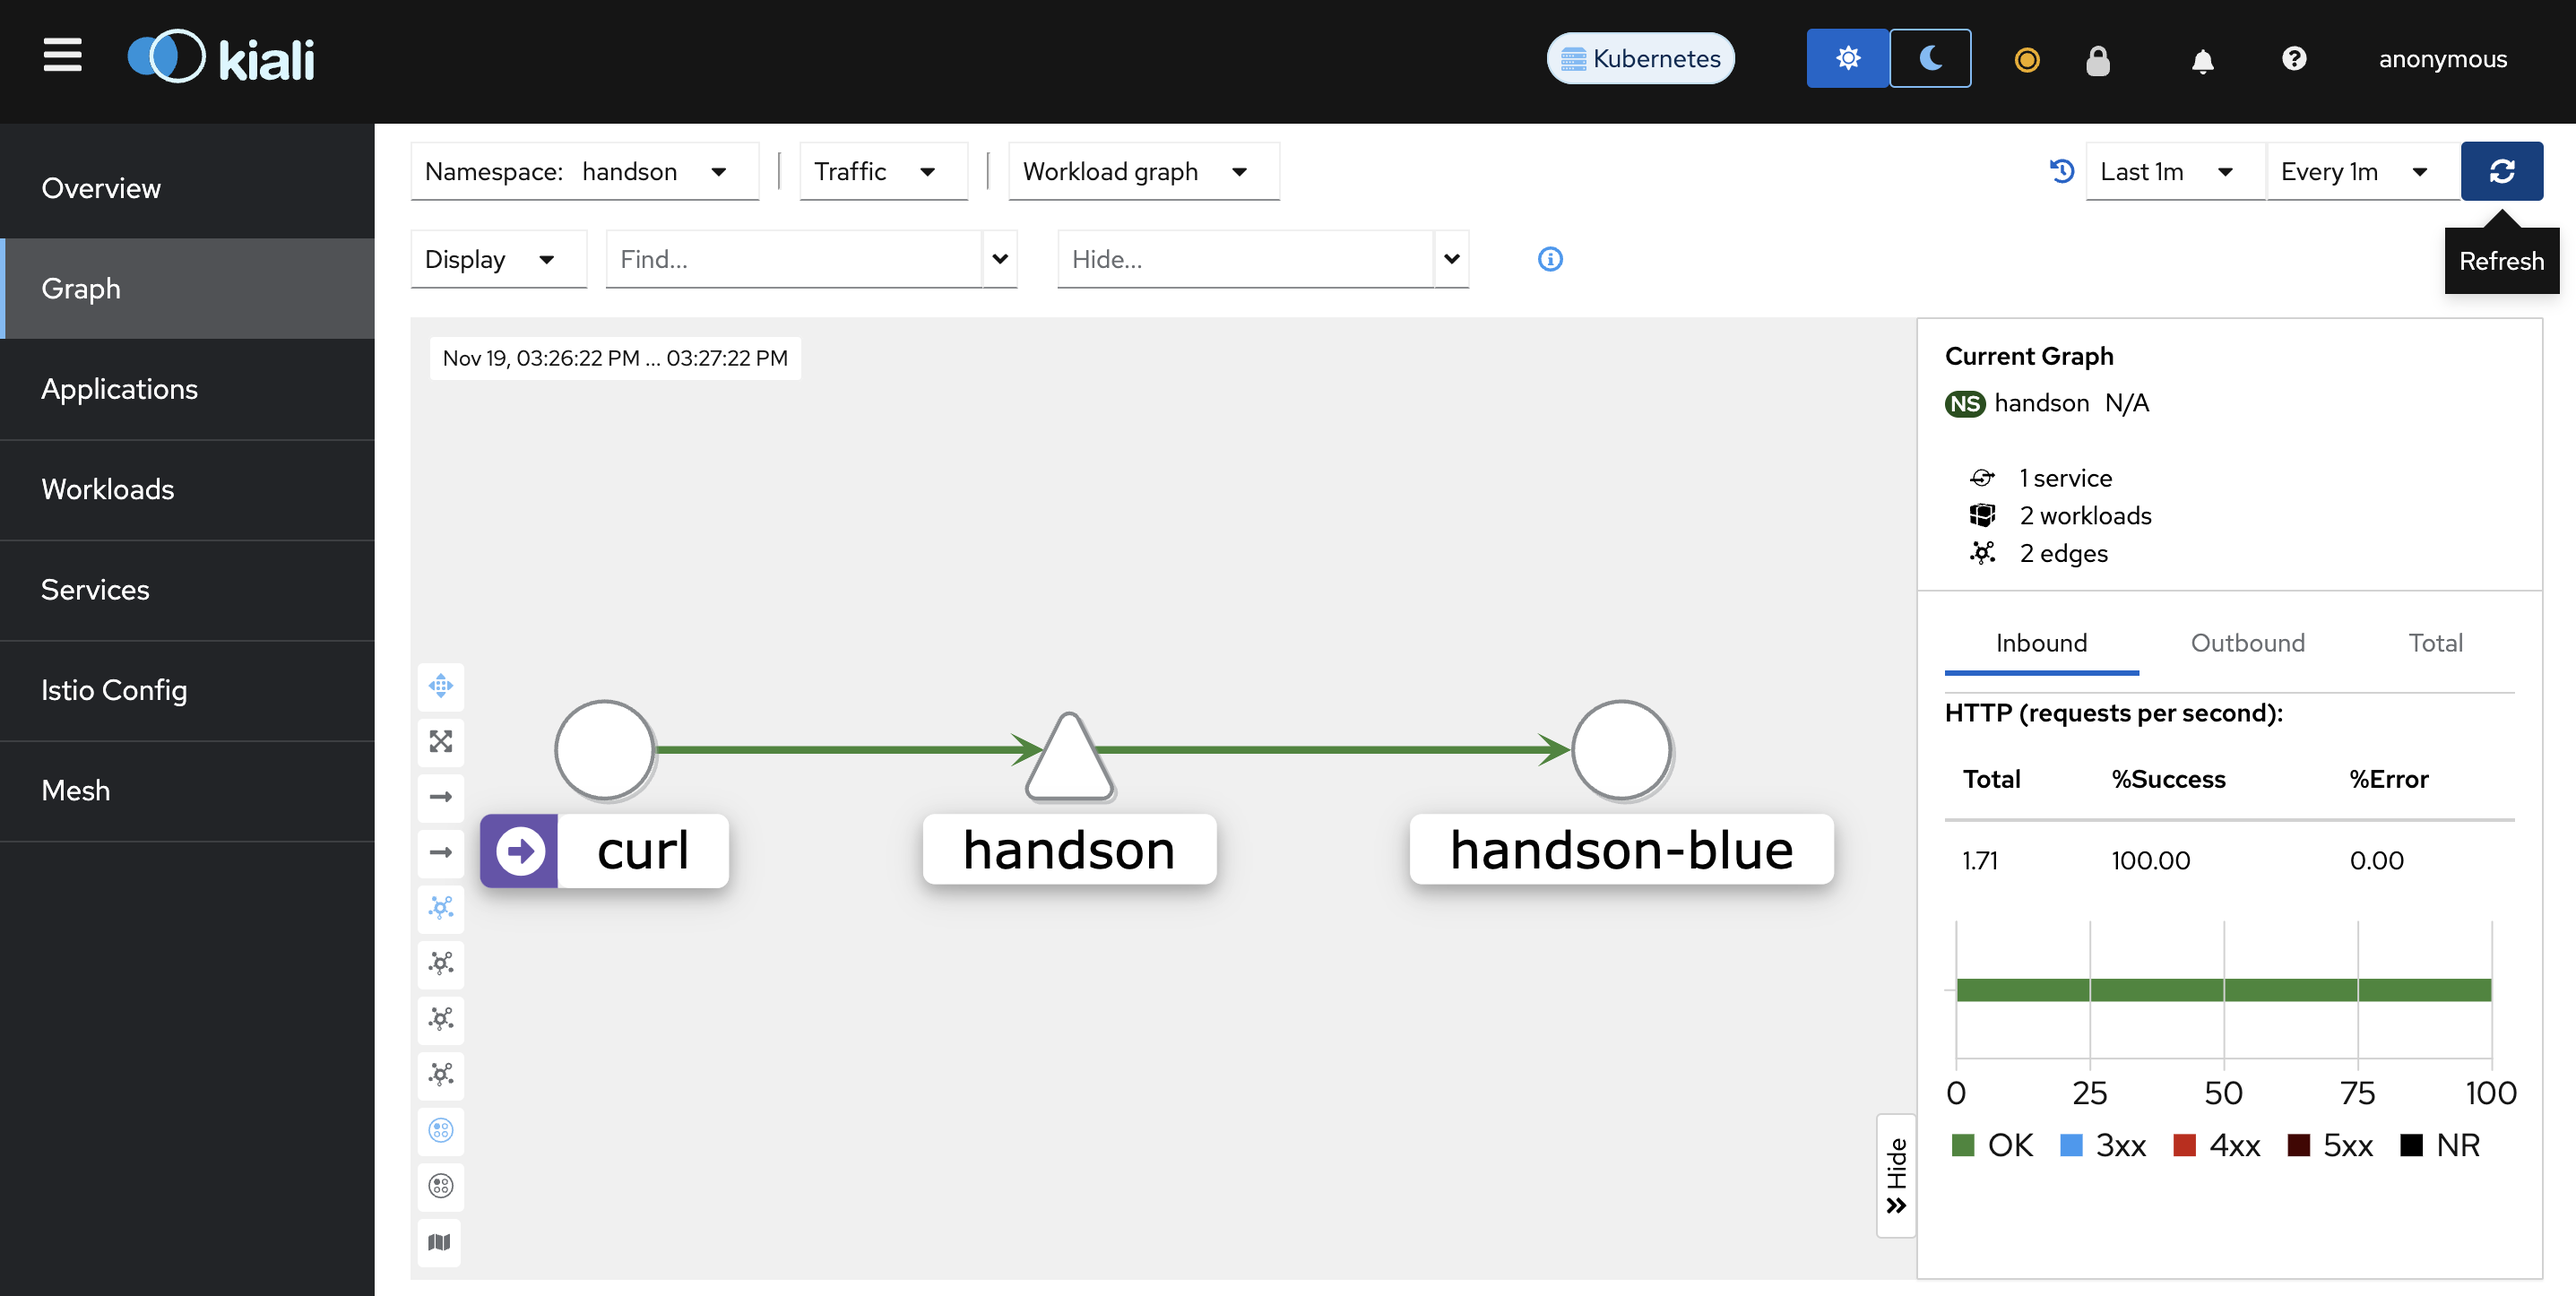
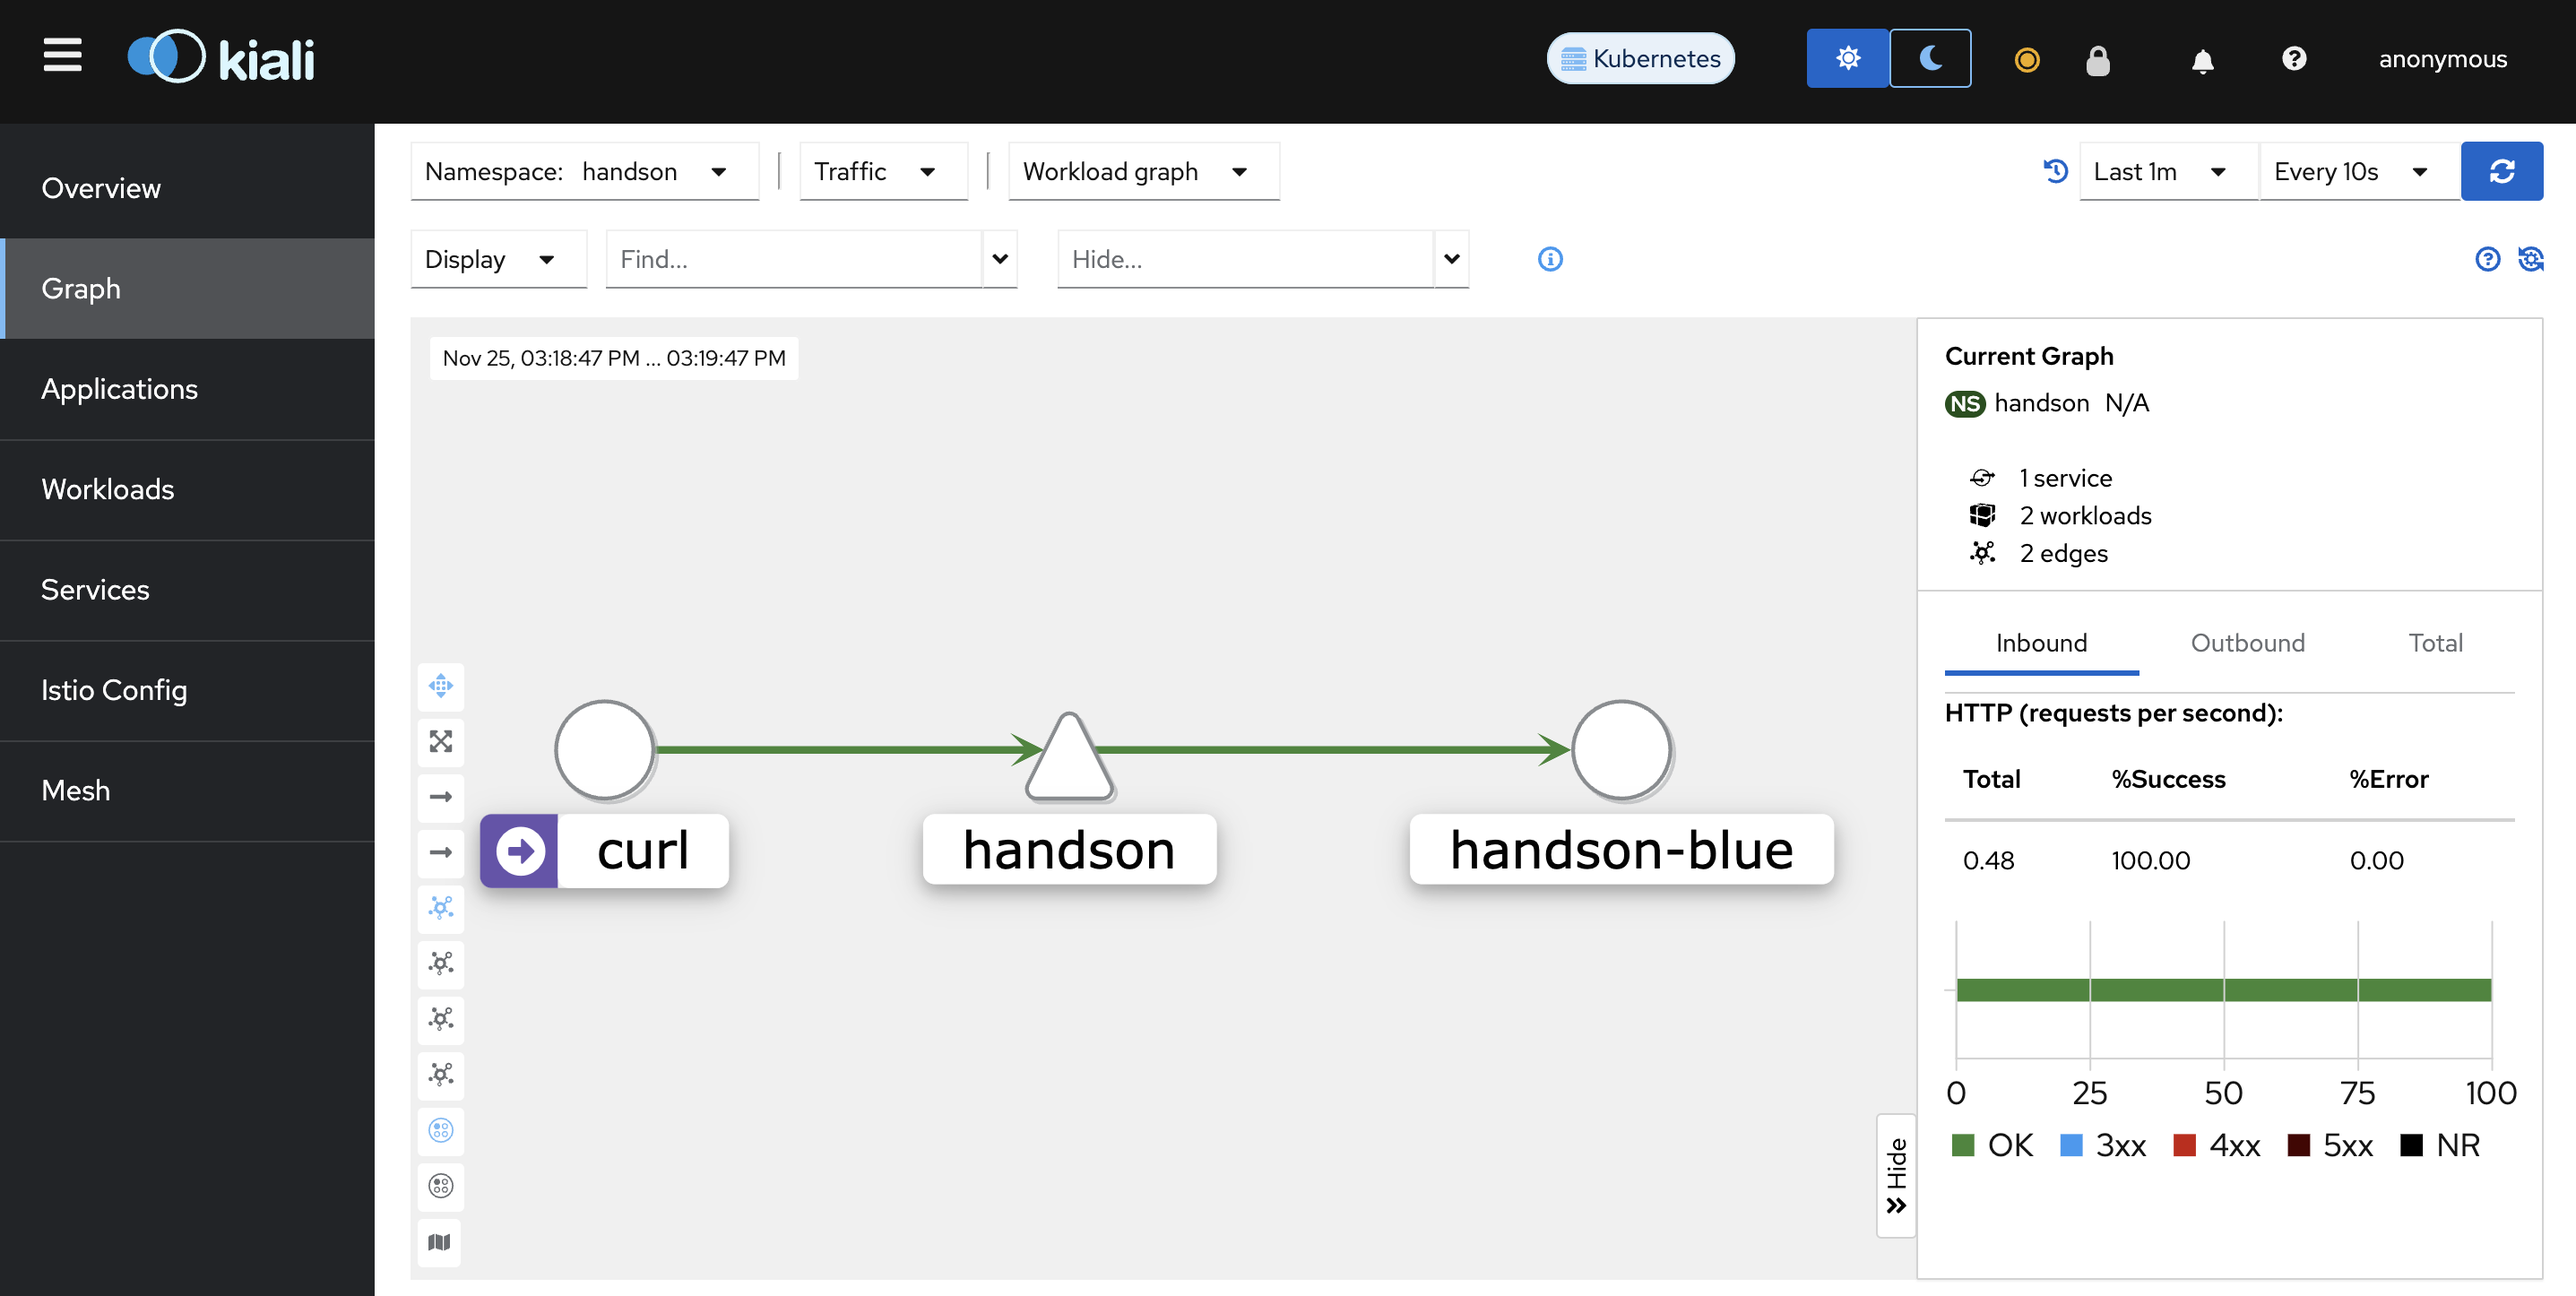
Change refresh interval to 10s from 1m

Changed region(s): [[0.7742, 0.0934, 1.0, 0.249], [0.2787, 0.249, 0.3097, 0.2801], [0.1858, 0.249, 0.2168, 0.2801]]

diff --git a/chapter04c_istio/README.md b/chapter04c_istio/README.md
@@ -197,6 +197,10 @@ Kialiダッシュボードのグラフ表示の設定を変更します。TOP画
 
 ![image](./image/kiali-graph-traffic-distribution.png)
 
+- グラフ更新期間を`Every 1m`から`Every 10s`に変更
+
+![image](./image/kiali-graph-refresh-interval.png)
+
 ## 加重ルーティング
 Istio Virtual Service/Destination Ruleを用いて加重ルーティングを実装します。旧バージョンから新バージョンへのアプリケーションの段階的な移行がユースケースとして挙げられます。本ケースでは、現在稼働しているアプリケーションとコンテナイメージタグが異なる追加のアプリケーションをdeployし、トラフィックを50%ずつ振り分けて、最終的に新しいアプリケーションに移行するシナリオを想定します。
 
